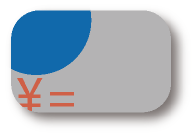
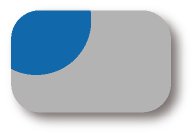
将初始化数据代码挪到后台线程中 修改繁忙桌子的图标

diff --git a/WpfRestaurant/LobbyOrderPage.xaml b/WpfRestaurant/LobbyOrderPage.xaml
@@ -21,7 +21,7 @@
                         <Button Click="BusyTableClick" Tag="{Binding Path=Id}" Background="{x:Null}" BorderBrush="{x:Null}" Style="{DynamicResource SquareButtonStyle}">
                             <Grid Width="85" Height="50">
                                 <Grid.Background>
-                                    <ImageBrush ImageSource="pic/餐厅图标1_23.png" Stretch="Fill" />
+                                    <ImageBrush ImageSource="pic/busy_table.png" Stretch="Fill" />
                                 </Grid.Background>
                                 <Grid.ColumnDefinitions>
                                     <ColumnDefinition Width="30"/>

diff --git a/WpfRestaurant/LoginPage.xaml.cs b/WpfRestaurant/LoginPage.xaml.cs
@@ -1,5 +1,6 @@
 using System;
 using System.Collections.Specialized;
+using System.ComponentModel;
 using System.Linq;
 using System.Net;
 using System.Runtime.InteropServices;
@@ -18,6 +19,7 @@ namespace WpfRestaurant
     {
         private readonly LoginWindow _loginWindow;
         private Config _config;
+        private BackgroundWorker _backgroundWorker;
         public LoginPage(LoginWindow loginWindow)
         {
             InitializeComponent();
@@ -26,72 +28,19 @@ namespace WpfRestaurant
             {
                 _config = db.Config.First();
             }
+            _backgroundWorker=new BackgroundWorker();
+            _backgroundWorker.DoWork += Init;
+            _backgroundWorker.RunWorkerCompleted += Completed;
         }
 
-        private void TextBlock_MouseLeftButtonUp(object sender, MouseButtonEventArgs e)
+        private void Completed(object sender, RunWorkerCompletedEventArgs e)
         {
-            var sup = new SetUpPage(_loginWindow);
-            _loginWindow.PageFrame.Content = sup;
+            MainWindow mainWindow = new MainWindow();
+            mainWindow.Show();
+            _loginWindow.Close();
         }
 
-        private void Button_Click(object sender, RoutedEventArgs e)
-        {
-            try
-            {
-                using (var db = new restaurantEntities())
-                {
-                    _config = db.Config.First();
-                    var name = NameTextbox.Text.Trim();
-                    var p = Marshal.SecureStringToBSTR(PwdBox.SecurePassword);
-                    var password = Marshal.PtrToStringBSTR(p);
-
-                    using (var client = new WebClient())
-                    {
-
-                        var values = new NameValueCollection
-                        {
-                            ["account"] = name,
-                            ["password"] = password
-                        };
-
-                        var response = client.UploadValues("http://" + _config.Http + "/restLogin/login.nd", values);
-
-                        var responseString = Encoding.UTF8.GetString(response);
-                        var jo = JObject.Parse(responseString);
-                        if (jo["id"] != null)
-                        {
-                            var i = new Infomation
-                            {
-                                RestaurantID = (int)jo["id"],
-                                Name = (string)jo["name"]
-                            };
-
-                            db.Infomation.Add(i);
-
-                            db.SaveChanges();
-                            Button.Content = "登录成功，正在初始化数据";
-                            ProgressRing.IsActive = true;
-                            Init();
-                            MainWindow mainWindow = new MainWindow();
-                            mainWindow.Show();
-                            _loginWindow.Close();
-                        }
-                        else
-                            MessageBox.Show("登录失败");
-                    }
-                }
-            }
-            catch (Exception exception)
-            {
-                MessageBox.Show(exception.Message);
-            }
-
-        }
-
-        /// <summary>
-        /// 初始化数据
-        /// </summary>
-        private void Init()
+        private void Init(object sender, DoWorkEventArgs e)
         {
             try
             {
@@ -152,6 +101,65 @@ namespace WpfRestaurant
                 MessageBox.Show(ex.Message);
                 //Console.WriteLine(ex.Message);
             }
+        }
+
+        private void TextBlock_MouseLeftButtonUp(object sender, MouseButtonEventArgs e)
+        {
+            var sup = new SetUpPage(_loginWindow);
+            _loginWindow.PageFrame.Content = sup;
+        }
+
+        private void Button_Click(object sender, RoutedEventArgs e)
+        {
+            try
+            {
+                using (var db = new restaurantEntities())
+                {
+                    _config = db.Config.First();
+                    MyApp.Config = _config;
+                    var name = NameTextbox.Text.Trim();
+                    var p = Marshal.SecureStringToBSTR(PwdBox.SecurePassword);
+                    var password = Marshal.PtrToStringBSTR(p);
+
+                    using (var client = new WebClient())
+                    {
+
+                        var values = new NameValueCollection
+                        {
+                            ["account"] = name,
+                            ["password"] = password
+                        };
+
+                        var response = client.UploadValues("http://" + _config.Http + "/restLogin/login.nd", values);
+                        var responseString = Encoding.UTF8.GetString(response);
+                        var jo = JObject.Parse(responseString);
+                        if (jo["id"] != null)
+                        {
+                            var i = new Infomation
+                            {
+                                RestaurantID = (int)jo["id"],
+                                Name = (string)jo["name"]
+                            };
+
+                            db.Infomation.Add(i);
+                            MyApp.Infomation = i;
+                            db.SaveChanges();
+                            Button.Content = "登录成功，正在初始化数据";
+                            ProgressRing.IsActive = true;
+                            _backgroundWorker.RunWorkerAsync();
+                      
+                            
+                        }
+                        else
+                            MessageBox.Show("登录失败");
+                    }
+                }
+            }
+            catch (Exception exception)
+            {
+                MessageBox.Show(exception.Message);
+            }
+
         }
     }
 }

diff --git a/WpfRestaurant/MyApp.cs b/WpfRestaurant/MyApp.cs
@@ -4,11 +4,13 @@ using System.Windows;
 
 namespace WpfRestaurant
 {
-    public static class MyApp
+    public class MyApp
     {
         public static long TableId = 0;
         public static int TableType = 0;
         public static string Http = null;
+        public static Config Config;
+        public static Infomation Infomation;
 
         /// <summary>
         /// 下载图片
